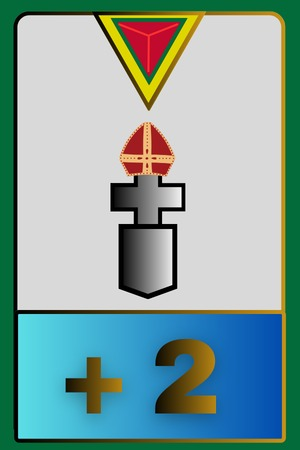
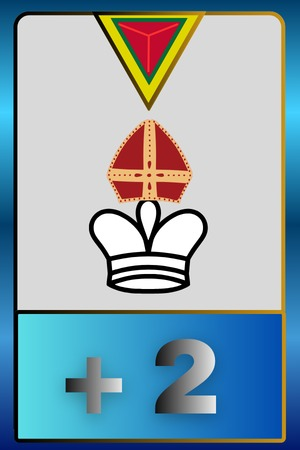
trigesimo sexto

diff --git a/public/css/style.css b/public/css/style.css
@@ -27,7 +27,7 @@ body{
     width: 100vw;
     font-size: 18px;
     overflow-x: hidden;
-    background: var(--main-color);
+    background-color: #D9D9D9;
     color: white;
 }
 
@@ -135,7 +135,7 @@ nav{
     display: flex;
     align-items: center;
     justify-content: space-between;
-    background: var(--main-color-darker);
+    background: #01365C;
 }
 
 .nav-brand{
@@ -259,7 +259,7 @@ nav{
 }
 
 .auth-form button:hover{
-    background: var(--secondary-color-lighter);
+    background: #01368C;
 }
 
 #create-account {
@@ -275,7 +275,9 @@ nav{
     font-family:'Times New Roman', Times, serif;
 }
 
-
+#create-account:hover {
+    background: #08B60B;
+}
 
 .redirect-link{
     font-weight: 300;
@@ -302,7 +304,7 @@ nav{
 .my-info{
     width: 250px;
     height: fit-content;
-    background: var(--main-color-darker);
+    background: #01365C;
     border-radius: 4px;
     padding: 20px;
     margin-right: 50px;
@@ -351,11 +353,16 @@ nav{
     margin-bottom: 20px;
     font-weight: 600;
     font-size: 1.7rem;
+    color: black;
+}
+
+.rooms p {
+    color: black;
 }
 
 .room{
     width: 100%;
-    background: var(--main-color-darker);
+    background: #01365C;
     margin-bottom: 30px;
     padding: 10px 20px;
     border-radius: 3px;
@@ -371,7 +378,7 @@ nav{
 }
 
 .room a{
-    background: var(--secondary-color);
+    background: #026B39;
     display: block;
     width: fit-content;
     padding: 10px 35px;
@@ -383,7 +390,7 @@ nav{
 }
 
 .room a:hover{
-    background: var(--secondary-color-lighter);
+    background-color: #4CA126;
 }
 
 .room:last-child{
@@ -446,7 +453,7 @@ nav{
     justify-content: center;
     align-items: center;
     transform-origin: bottom right;
-    background: var(--main-color-darker);
+    background: #01365C;
     border-radius: 10px;
     padding: 30px;
 }
@@ -501,7 +508,7 @@ nav{
     max-height: 150px;
     overflow-y: auto;
     width: 100%;
-    background: var(--main-color);
+    background-color: #D9D9D9;
     margin-bottom: 20px;
     border-radius: 5px;
     padding: 10px;
@@ -534,8 +541,8 @@ nav{
 }
 
 .message .time{
-    color: var(--bg-orange);
-    font-weight: 300;
+    color: #01365C;
+    font-weight: bolder;
     font-size: .9rem;
     margin-bottom: 5px;
 }
@@ -545,10 +552,12 @@ nav{
     letter-spacing: .4px;
     font-weight: 300;
     font-size: 1rem;
+    color: black;
+    font-weight: bolder;
 }
 
 .message strong{
-    color: var(--bg-danger);
+    color: #026B39;
     margin-right: 5px;
     font-weight: 900 !important;
 }
@@ -564,16 +573,16 @@ nav{
 }
 
 .chat-form input{
-    background: var(--main-color);
+    background-color: #D9D9D9;
     border: none;
     border-radius: 5px;
     padding: 5px 15px;
     display: block;
     height: 100%;
     width: 70%;
-    color: white;
+    color: black;
     font-size: 1.1rem;
-    font-weight: 300;
+    font-weight: bolder;
 }
 
 .chat-form button{
@@ -582,7 +591,7 @@ nav{
     height: 100%;
     font-weight: 300;
     color: white;
-    background: var(--secondary-color);
+    background: #026B39;
     border-radius: 5px;
     font-size: 1.1rem;
     transition: background-color 200ms ease-in;
@@ -618,6 +627,7 @@ nav{
 .games-top h1{
     font-weight: 400;
     font-size: 2.5rem;
+    color: black;
 }
 
 .games-top select{
@@ -625,7 +635,7 @@ nav{
     height: 100%;
     width: fit-content;
     padding: 10px;
-    background: var(--main-color-darker);
+    background: #01365C;
     color: white;
     outline: none;
     border: 1px solid white;
@@ -639,6 +649,7 @@ nav{
     text-align: center;
     font-size: 1.8rem;
     margin-bottom: 20px;
+    color: black;
 }
 
 .games-bottom{
@@ -655,10 +666,11 @@ nav{
     font-weight: 300;
     border-radius: 5px;
     transition: background-color 200ms ease-in;
+    background: #026B39;
 }
 
 .games-bottom button:first-child{
-    background: var(--bg-success);
+    background-color: #026B39;
 }
 
 .games-bottom button:first-child:hover{
@@ -666,7 +678,7 @@ nav{
 }
 
 .games-bottom button:last-child{
-    background: var(--bg-danger);
+    background: #669146;
 }
 
 .games-bottom button:last-child:hover{

diff --git a/public/js/room2/index.js b/public/js/room2/index.js
@@ -1286,7 +1286,7 @@ const sortearCartas = () => {
 
     let numeros = [];
 
-    for (let i = 1; i <= 21; i++) {
+    for (let i = 1; i <= 18; i++) {
         numeros.push(i);
     }
 
@@ -1300,7 +1300,7 @@ const sortearCartas = () => {
 
     numeros = [];
 
-    for (let i = 1; i <= 12; i++) {
+    for (let i = 1; i <= 15; i++) {
         numeros.push(i);
     }
 
@@ -1321,7 +1321,7 @@ const sortearCartas = () => {
 
     numeros = [];
 
-    for (let i = 1; i <= 21; i++) {
+    for (let i = 1; i <= 18; i++) {
         numeros.push(i);
     }
 
@@ -1335,7 +1335,7 @@ const sortearCartas = () => {
 
     numeros = [];
 
-    for (let i = 1; i <= 12; i++) {
+    for (let i = 1; i <= 15; i++) {
         numeros.push(i);
     }
 
@@ -1425,18 +1425,6 @@ const switchCartasEsp = (cartaNum) => {
             poderCarta = "Rei vale 0";
             break;
 
-        case 19:
-            poderCarta = "Excluir peça adv";
-            break;
-
-        case 20:
-            poderCarta = "Excluir peça adv";
-            break;
-
-        case 21:
-            poderCarta = "Excluir peça adv";
-            break;
-
         default:
             poderCarta = "Carta errada";
             break;
@@ -1482,6 +1470,12 @@ const switchCartas = (cartaNum) => {
         case 11:
         case 12:
             poderCarta = "Ganha 1/4 tempo";
+            break;
+
+        case 13:
+        case 14:
+        case 15:
+            poderCarta = "Exclui peça adv";
             break;
 
         default:
@@ -1539,17 +1533,6 @@ const efeitoCartasEsp = (cartaNum) => {
             halfPoints("king", 0);
             break;
 
-        case 19:
-            removePiece("knight");
-            break;
-
-        case 20:
-            removePiece("bishop");
-            break;
-
-        case 21:
-            removePiece("rook");
-
         default:
             break;
     }
@@ -1595,6 +1578,17 @@ const efeitoCartas = (cartaNum) => {
         case 12:
             timer.multiplyTime(5 / 4);
             break;
+
+        case 13:
+            removePiece("knight");
+            break;
+
+        case 14:
+            removePiece("bishop");
+            break;
+
+        case 15:
+            removePiece("rook");
 
         default:
             break;
